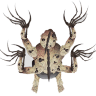
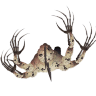
fix Enemy all images

diff --git a/src/gameobj/enemy/ZombieShock.java b/src/gameobj/enemy/ZombieShock.java
@@ -64,18 +64,20 @@ public class ZombieShock extends MoveMode {
     private void setMoveSpeedDetail() {
         this.targetHp = new Delay(30);
         this.targetHp.start();
-        this.imageDelay = new Delay(2);
+        this.imageDelay = new Delay(3);
         this.imageDelay.start();
     }
 
     private void move() {
-        if (this.vectorMove.getIsCollision()) {
-            this.setAngle();
-            this.setAverageSpeed();
-            this.renderer.setAngle(this.getAngle());
-            this.renderer.setState(1);
-        }
         if (this.getMoveDelay().isTrig()) {
+            if (this.vectorMove.getIsCollision()) {
+                this.setAngle();
+                this.setAverageSpeed();
+                this.renderer.setAngle(this.getAngle());
+                if (this.imageDelay.isTrig()) {
+                    this.renderer.setState(this.imageState++ % 25);
+                }
+            }
             if (this.delayCount++ > 60) {
                 this.delayCount = 0;
                 this.vectorMove.setIsCollision(false);
@@ -83,7 +85,7 @@ public class ZombieShock extends MoveMode {
             this.vectorMove.setHurtPoint(2);
             if (!this.vectorMove.getIsCollision()) {
                 if (this.imageDelay.isTrig()) {
-                    this.renderer.setState(this.imageState++ % 15);
+                    this.renderer.setState(this.imageState++ % 25);
                 }
                 this.vectorMove.newOffset(this.averageSpeed.offsetDX() * 3, this.averageSpeed.offsetDY() * 3);
             }

diff --git a/src/controllers/ImagePath.java b/src/controllers/ImagePath.java
@@ -74,7 +74,17 @@ public class ImagePath {
         ImagePath.ROOT + "/monster/monster_ (12).png",
         ImagePath.ROOT + "/monster/monster_ (13).png",
         ImagePath.ROOT + "/monster/monster_ (14).png",
-        ImagePath.ROOT + "/monster/monster_ (15).png"};
+        ImagePath.ROOT + "/monster/monster_ (15).png",
+        ImagePath.ROOT + "/monster/monster_ (16).png",
+        ImagePath.ROOT + "/monster/monster_ (17).png",
+        ImagePath.ROOT + "/monster/monster_ (18).png",
+        ImagePath.ROOT + "/monster/monster_ (19).png",
+        ImagePath.ROOT + "/monster/monster_ (20).png",
+        ImagePath.ROOT + "/monster/monster_ (21).png",
+        ImagePath.ROOT + "/monster/monster_ (22).png",
+        ImagePath.ROOT + "/monster/monster_ (23).png",
+        ImagePath.ROOT + "/monster/monster_ (24).png",
+        ImagePath.ROOT + "/monster/monster_ (25).png"};
     public static final String[] HP = {ImagePath.ROOT + "/HP_frame.png", ImagePath.ROOT + "/HP.png", ImagePath.ROOT + "/HP_debug.png"};
     public static final String[] BUILDING = {ImagePath.ROOT + "/room.png"};
     public static final String[] START_MENU = {ImagePath.ROOT + "/startmenu.jpeg",

diff --git a/src/scenes/MainScene.java b/src/scenes/MainScene.java
@@ -65,7 +65,7 @@ public class MainScene extends Scene {
     private boolean nameTyped;
     private String name;
     private int top; // 多少名次內可以進排行榜
-
+    
     public MainScene(SceneController sceneController) {
         super(sceneController);
         this.mouseState = false;
@@ -129,8 +129,8 @@ public class MainScene extends Scene {
         this.boss = new Boss("rect", 100f, 50f, this.actor, 60);
         this.allObjects.add(this.boss);
         this.boss.setAllObject(this.allObjects);
-        this.boss.setStartAttack(true);
-        this.boss.setStartPaint(true);
+//        this.boss.setStartAttack(true);
+//        this.boss.setStartPaint(true);
         //boss end
         genEnemies(100, 100, 600, 600, 5); //DEBUG 用
         this.scoreCal.gameStart();

diff --git a/src/util/Global.java b/src/util/Global.java
@@ -12,7 +12,7 @@ package util;
 public class Global {
 
     // Debug Mode
-    public static final boolean IS_DEBUG = false;
+    public static final boolean IS_DEBUG = true;
 
     public static void log(String str) {
         if (IS_DEBUG) {
